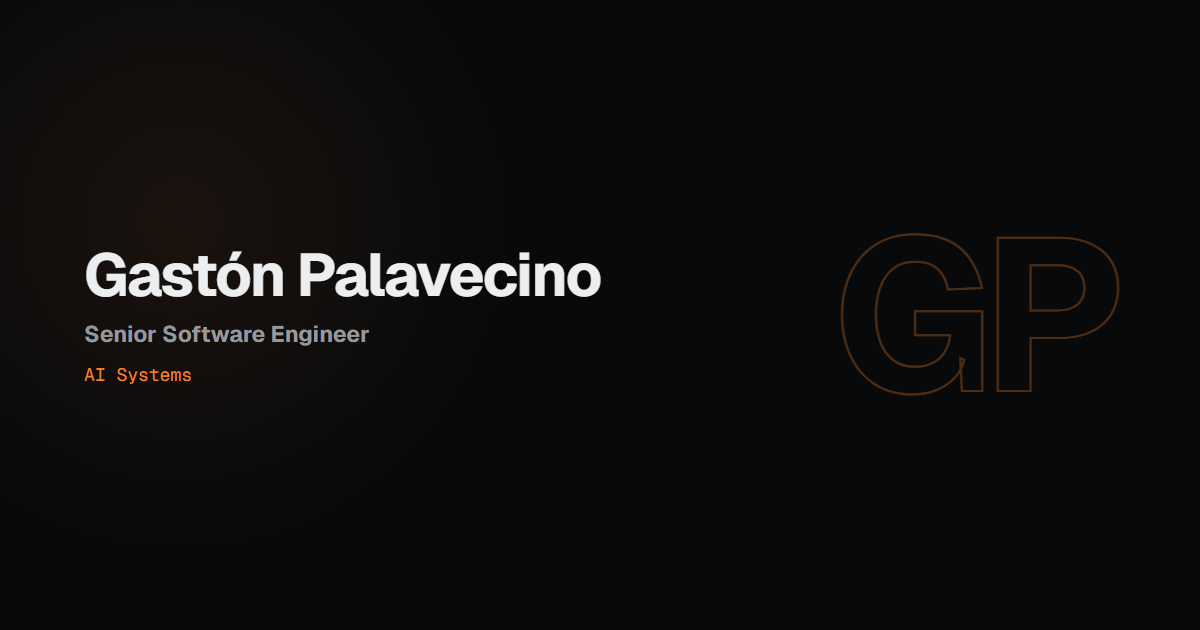
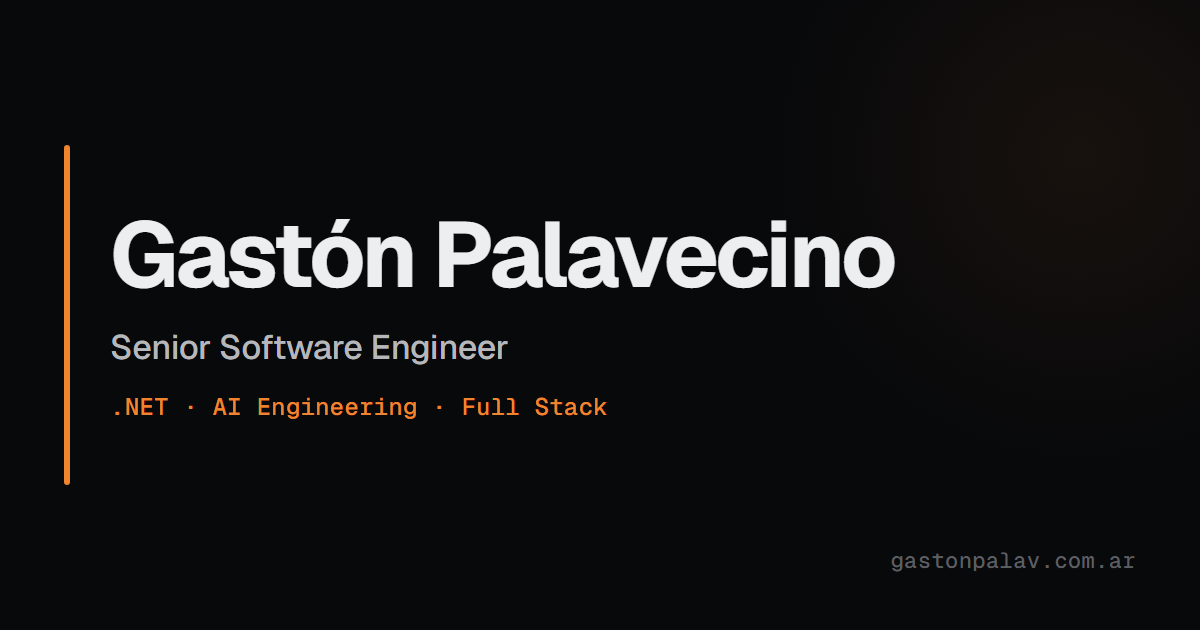
Redesign OG image for thumbnail legibility
The old card packed name/role/tags into a small top-left cluster next to
a very faint outlined monogram, with most of the 1200x630 canvas left
empty. At the small sizes link previews actually render at (WhatsApp,
iMessage, Slack), the text read too small and the monogram barely showed.

Bigger type, vertically centered, a left accent bar for brand identity,
and the domain in the corner instead of the monogram. Verified against a
300x158 thumbnail render — legible at that size now.

Claude-Session: https://claude.ai/code/session_01LGd7bF2BFHLMUquRg4AAoZ

diff --git a/og-image.html b/og-image.html
@@ -4,7 +4,7 @@
   <meta charset="UTF-8">
   <link rel="preconnect" href="https://fonts.googleapis.com">
   <link rel="preconnect" href="https://fonts.gstatic.com" crossorigin>
-  <link href="https://fonts.googleapis.com/css2?family=Geist:wght@700&family=Geist+Mono:wght@400&display=swap" rel="stylesheet">
+  <link href="https://fonts.googleapis.com/css2?family=Geist:wght@500;700&family=Geist+Mono:wght@500&display=swap" rel="stylesheet">
   <style>
     * { margin: 0; padding: 0; box-sizing: border-box; }
 
@@ -16,70 +16,85 @@
       font-family: 'Geist', system-ui, sans-serif;
     }
 
-    .bloom-a {
+    .bloom {
       position: absolute;
-      width: 840px; height: 693px;
-      top: -126px; left: -240px;
-      background: radial-gradient(circle, oklch(45% 0.09 55 / 0.16) 0%, transparent 60%);
+      width: 760px; height: 630px;
+      top: -160px; right: -260px;
+      background: radial-gradient(circle, oklch(45% 0.09 55 / 0.14) 0%, transparent 62%);
     }
 
     .content {
       position: relative; z-index: 1;
       width: 100%; height: 100%;
-      display: grid;
-      grid-template-columns: 1fr auto;
+      display: flex;
       align-items: center;
-      padding: 0 84px;
+      padding-left: 110px;
+      padding-right: 90px;
+    }
+
+    .accent-bar {
+      position: absolute;
+      left: 64px;
+      top: 50%;
+      transform: translateY(-50%);
+      width: 6px;
+      height: 340px;
+      background: oklch(72% 0.16 55);
+      border-radius: 3px;
     }
 
     .text-group {
       display: flex;
       flex-direction: column;
-      justify-content: center;
-      padding-right: 48px;
+      max-width: 920px;
     }
 
     .name {
-      font-size: 60px;
+      font-size: 92px;
       font-weight: 700;
       color: oklch(95% 0.003 260);
-      letter-spacing: -0.03em;
-      line-height: 1.05;
-      margin-bottom: 12px;
+      letter-spacing: -0.035em;
+      line-height: 1.02;
+      margin-bottom: 24px;
     }
 
     .role {
-      font-size: 22.8px;
-      color: oklch(68% 0.005 260);
-      margin-bottom: 14.4px;
+      font-size: 34px;
+      font-weight: 500;
+      color: oklch(78% 0.004 260);
+      letter-spacing: -0.01em;
+      margin-bottom: 22px;
     }
 
     .tags {
       font-family: 'Geist Mono', monospace;
-      font-size: 18px;
+      font-size: 24px;
+      font-weight: 500;
       color: oklch(72% 0.16 55);
+      letter-spacing: 0.01em;
     }
 
-    .monogram {
-      font-size: 216px;
-      font-weight: 700;
-      color: transparent;
-      -webkit-text-stroke: 2px oklch(72% 0.16 55 / 0.3);
-      line-height: 1;
-      letter-spacing: -0.05em;
-      user-select: none;
+    .domain {
+      position: absolute;
+      right: 64px;
+      bottom: 56px;
+      font-family: 'Geist Mono', monospace;
+      font-size: 22px;
+      color: oklch(48% 0.006 260);
+      letter-spacing: 0.02em;
     }
   </style>
 </head>
 <body>
-  <div class="bloom-a"></div>
+  <div class="bloom"></div>
+  <div class="accent-bar"></div>
   <div class="content">
     <div class="text-group">
       <div class="name">Gastón Palavecino</div>
       <div class="role">Senior Software Engineer</div>
-      <div class="tags">AI Systems</div>
+      <div class="tags">.NET · AI Engineering · Full Stack</div>
     </div>
-    <div class="monogram">GP</div>
   </div>
+  <div class="domain">gastonpalav.com.ar</div>
 </body>
 </html>
